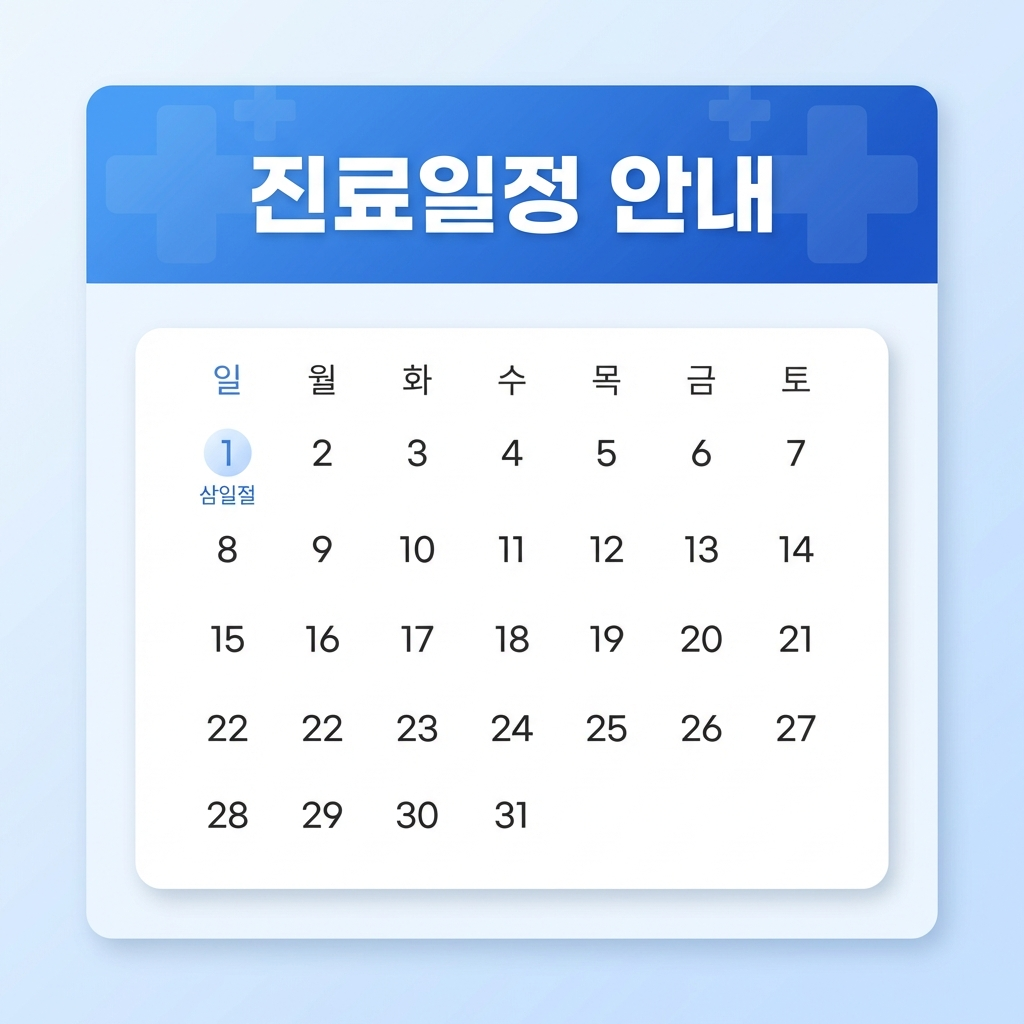
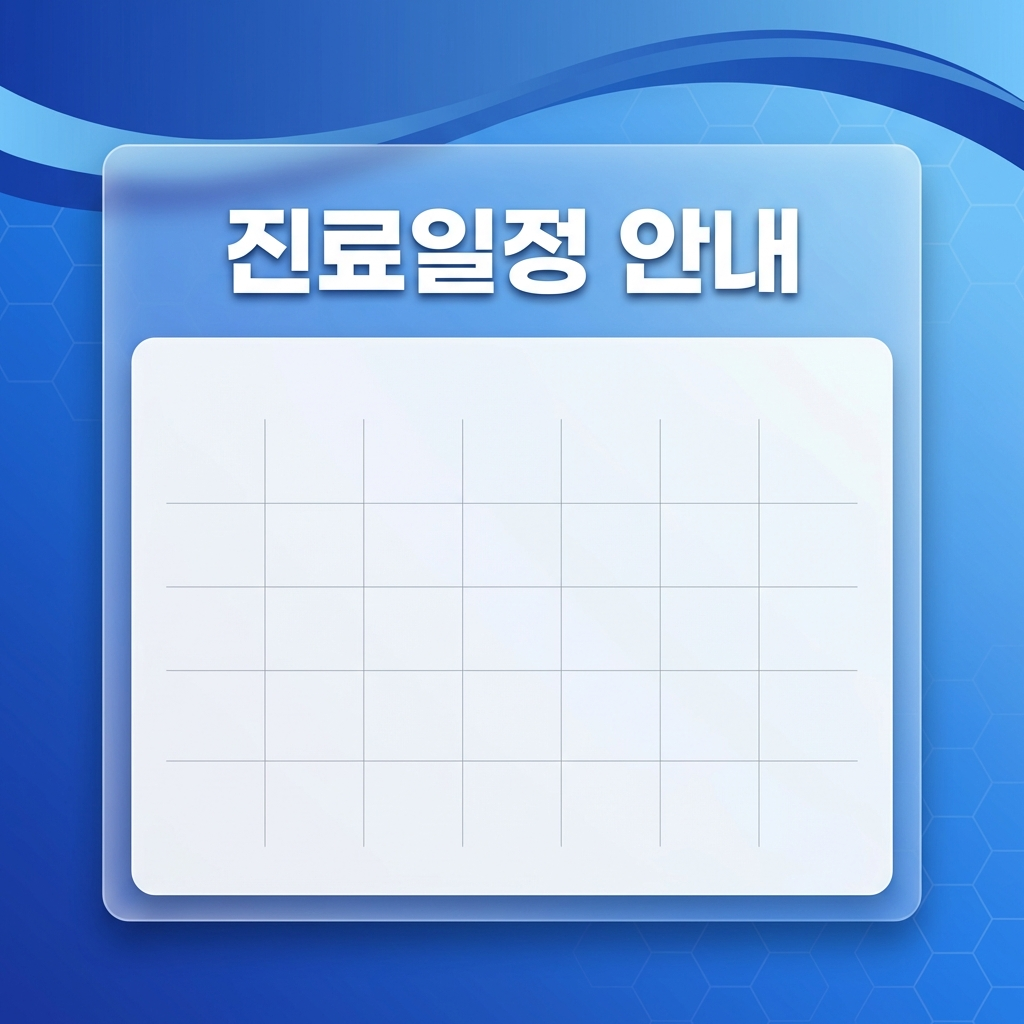
클린 블루 프롬프트 강화: 단촐한 파란 박스 → 프리미엄 그라데이션
- 플랫 블루 헤더 → 딥블루→스카이 리치 그라데이션
- 추상 웨이브/커브 장식 + 헥사곤 패턴 5% opacity
- frosted white card (backdrop-blur, 95% opacity, 큰 그림자)
- 삼성/현대 수준 프리미엄 기업 디자인 지향
- 프리뷰 이미지 재생성 (460KB)

https://claude.ai/code/session_0146MbTZpAY12j7EZ6V4viNe

diff --git a/next-app/lib/categoryTemplates.ts b/next-app/lib/categoryTemplates.ts
@@ -191,22 +191,22 @@ The poster must have visual identity: background texture, decorative elements, b
 DO NOT make the calendar grid fill 100% of the image.
 DO NOT add any information the user did not provide (no clinic hours, no lunch time, no phone number unless user entered them).
 
-Korean hospital monthly schedule poster — Clean Corporate Blue theme.
+Korean hospital monthly schedule poster — Premium Clean Blue theme.
 
-BACKGROUND: Entire background soft blue gradient (#eff6ff to #dbeafe). Clean, professional, trustworthy medical clinic atmosphere.
+BACKGROUND: Entire background deep blue-to-sky gradient (#1d4ed8 at top fading through #3b82f6 to #93c5fd at bottom). The gradient should feel rich and dimensional, not flat. Subtle abstract wave or flowing curve shapes in lighter blue (#60a5fa) at 8-12% opacity across the background, creating depth and movement.
 
-DECORATIVE LAYER: Blue gradient header bar (#3b82f6 to #1d4ed8) spanning full width at top, taking 25-30% of image. Subtle geometric pattern or medical cross icon at low opacity in header. Clean white card floating below with soft shadow.
+DECORATIVE LAYER: Large, elegant curved wave decoration sweeping across the header area — think premium airline or fintech branding. Small geometric diamond or hexagon pattern scattered at 5% opacity in the blue gradient. Thin white decorative line (0.5px) separating header from calendar area.
 
-CALENDAR CARD: White card (rounded 12px, shadow 0 2px 8px rgba(0,0,0,0.08)) containing the calendar grid. Day headers on light blue (#dbeafe) row. Sunday red, Saturday blue.
+CALENDAR CARD: Frosted white card (backdrop-blur feel, 95% opacity, rounded 16px, shadow 0 8px 32px rgba(0,0,0,0.12)) floating on the blue gradient. The blue gradient should be visible around and slightly through the card edges. Card feels premium and elevated.
 
-TITLE: Bold white text on the blue gradient header. Hospital name small above.
+TITLE: Bold white text with subtle text-shadow on the deep blue gradient. Large and confident. Hospital name in light blue (#93c5fd) small above.
 
-COLOR PALETTE: Blue #3b82f6, deep blue #1d4ed8, white, light blue #eff6ff.
+COLOR PALETTE: Deep blue #1d4ed8, medium blue #3b82f6, sky blue #93c5fd, white, frosted white.
 
-QUALITY: Most standard, universally applicable hospital calendar design. Clean, professional, no-nonsense. Every hospital can use this.
+QUALITY: This must look like a Samsung or Hyundai corporate design — premium, sophisticated, tech-forward. NOT a simple blue rectangle with white text. The gradient, waves, and frosted card create a modern, dimensional, premium feel.
 
-STRICT ANCHORS: Blue gradient header, white floating card, blue/white palette, corporate medical aesthetic, clean sans-serif typography.
-INSPIRED FREEDOM: Gradient angle, header pattern, card shadow intensity, blue shade range.
+STRICT ANCHORS: Rich blue gradient (not flat), abstract wave/curve decorations, frosted white floating card, blue monochrome palette, premium corporate aesthetic.
+INSPIRED FREEDOM: Wave shape and placement, gradient color stops, diamond/hexagon pattern density, card frosting intensity.
 Mobile readability: minimum body text 11pt, date numbers 14pt bold, title 24pt+.`,
     },
     {
